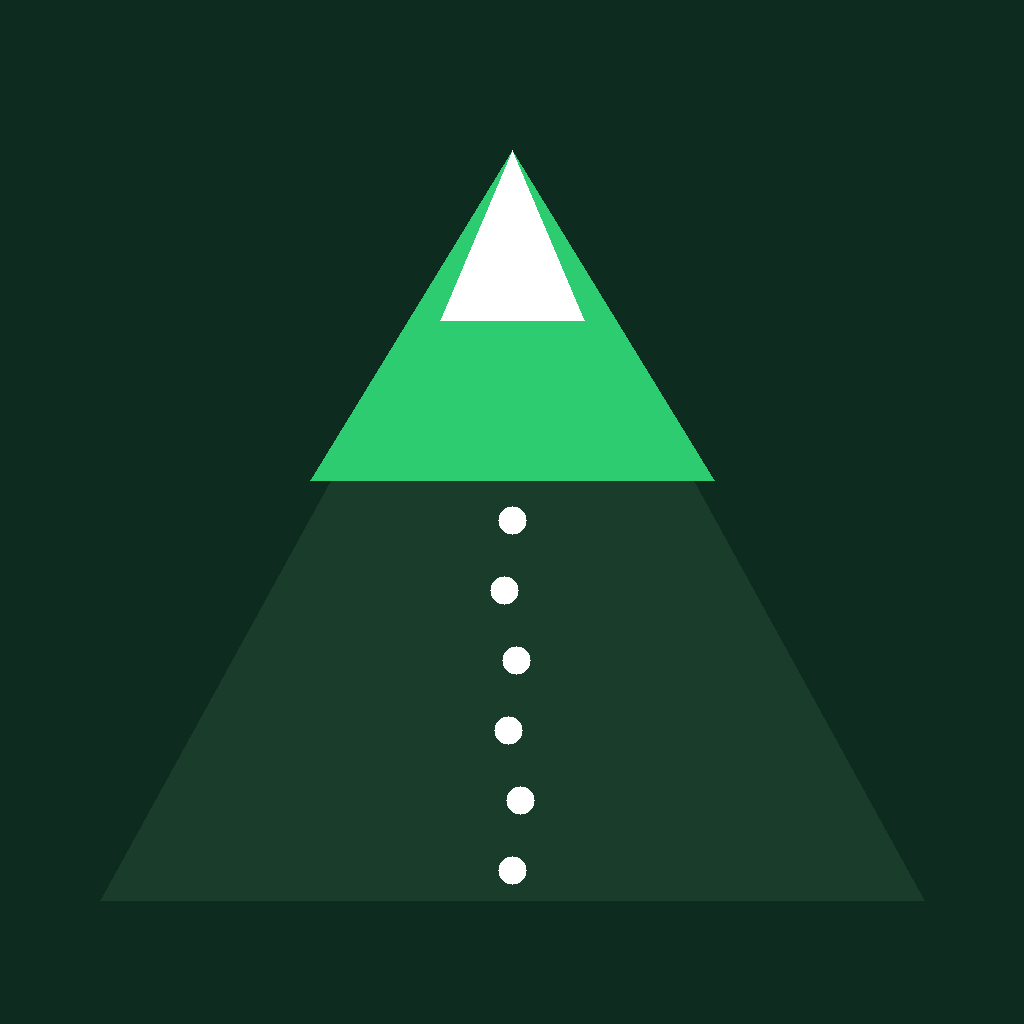
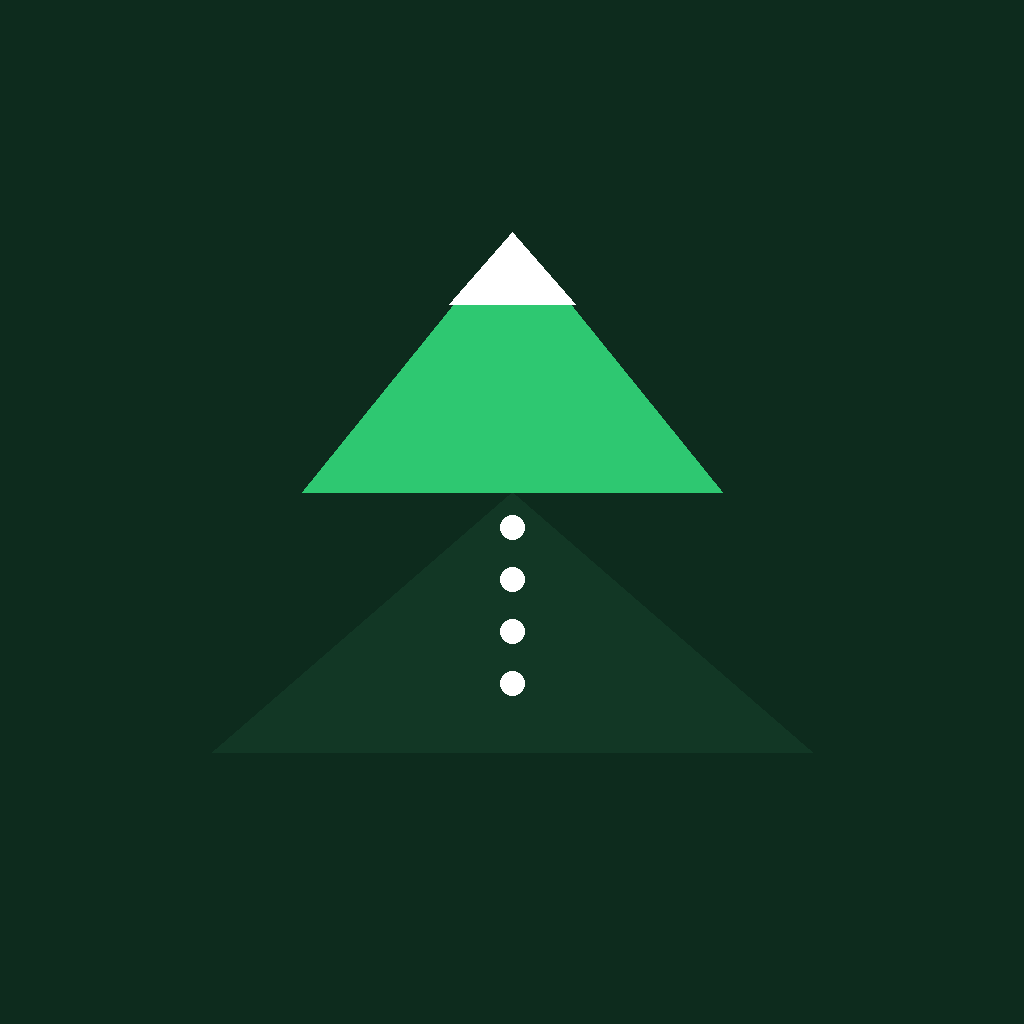
Add brand splash/background images; use ImageBackground in Login and Profile screens
- Generate brand-bg.png (1080x2340) and splash.png with mountain+road logo,
  trekwanderer text, amber accent bar, and tagline on forest-green background
- Regenerate icon.png and adaptive-icon.png to match brand style
- LoginScreen: splash loading state and hero section now use ImageBackground
  with brand-bg.png + semi-transparent dark overlay
- ProfileScreen: banner header now uses ImageBackground with brand-bg.png overlay
- app.json: splash resizeMode changed from contain to cover

Claude-Session: https://claude.ai/code/session_01X1T6DkNCjtaywPJhUUwguC

diff --git a/mobile/src/screens/LoginScreen.tsx b/mobile/src/screens/LoginScreen.tsx
@@ -2,6 +2,7 @@ import React, { useState, useEffect } from 'react';
 import {
   View, Text, TextInput, TouchableOpacity, StyleSheet,
   KeyboardAvoidingView, Platform, ActivityIndicator, ScrollView, Alert,
+  ImageBackground,
 } from 'react-native';
 import { useSafeAreaInsets } from 'react-native-safe-area-context';
 import { Ionicons } from '@expo/vector-icons';
@@ -9,6 +10,8 @@ import AsyncStorage from '@react-native-async-storage/async-storage';
 import { useAuthStore } from '@/store/authStore';
 import { COLORS } from '@/theme/colors';
 import { BASE_URL_KEY } from '@/api/client';
+
+const BRAND_BG = require('../../assets/brand-bg.png');
 
 export function LoginScreen() {
   const insets = useSafeAreaInsets();
@@ -45,13 +48,15 @@ export function LoginScreen() {
 
   if (isLoading) {
     return (
-      <View style={styles.splash}>
-        <View style={styles.splashLogo}>
-          <Ionicons name="bicycle" size={42} color={COLORS.accent} />
+      <ImageBackground source={BRAND_BG} style={styles.splash} resizeMode="cover">
+        <View style={styles.splashOverlay}>
+          <View style={styles.splashLogo}>
+            <Ionicons name="bicycle" size={42} color={COLORS.accent} />
+          </View>
+          <Text style={styles.splashName}>trekwanderer</Text>
+          <ActivityIndicator color={COLORS.accent} size="large" style={{ marginTop: 40 }} />
         </View>
-        <Text style={styles.splashName}>trekwanderer</Text>
-        <ActivityIndicator color={COLORS.accent} size="large" style={{ marginTop: 40 }} />
-      </View>
+      </ImageBackground>
     );
   }
 
@@ -65,14 +70,20 @@ export function LoginScreen() {
         keyboardShouldPersistTaps="handled"
         bounces={false}
       >
-        {/* ── Brand header ── */}
-        <View style={[styles.hero, { paddingTop: insets.top + 32 }]}>
-          <View style={styles.logoBadge}>
-            <Ionicons name="bicycle" size={36} color={COLORS.accent} />
+        {/* ── Brand header with background image ── */}
+        <ImageBackground
+          source={BRAND_BG}
+          style={styles.hero}
+          resizeMode="cover"
+        >
+          <View style={[styles.heroOverlay, { paddingTop: insets.top + 32 }]}>
+            <View style={styles.logoBadge}>
+              <Ionicons name="bicycle" size={36} color={COLORS.accent} />
+            </View>
+            <Text style={styles.appName}>trekwanderer</Text>
+            <Text style={styles.tagline}>Viaja. Explora. Descubre.</Text>
           </View>
-          <Text style={styles.appName}>trekwanderer</Text>
-          <Text style={styles.tagline}>Viaja. Explora. Descubre.</Text>
-        </View>
+        </ImageBackground>
 
         {/* ── Form ── */}
         <View style={[styles.form, { paddingBottom: insets.bottom + 32 }]}>
@@ -151,7 +162,10 @@ export function LoginScreen() {
 const styles = StyleSheet.create({
   splash: {
     flex: 1,
-    backgroundColor: COLORS.bg,
+  },
+  splashOverlay: {
+    flex: 1,
+    backgroundColor: 'rgba(13,43,29,0.72)',
     justifyContent: 'center',
     alignItems: 'center',
   },
@@ -176,11 +190,17 @@ const styles = StyleSheet.create({
   },
 
   hero: {
-    backgroundColor: COLORS.bg,
     alignItems: 'center',
     paddingBottom: 44,
     borderBottomLeftRadius: 36,
     borderBottomRightRadius: 36,
+    overflow: 'hidden',
+  },
+  heroOverlay: {
+    width: '100%',
+    alignItems: 'center',
+    paddingBottom: 44,
+    backgroundColor: 'rgba(13,43,29,0.60)',
   },
   logoBadge: {
     width: 80,

diff --git a/mobile/src/screens/ProfileScreen.tsx b/mobile/src/screens/ProfileScreen.tsx
@@ -1,10 +1,12 @@
 import React from 'react';
-import { View, Text, TouchableOpacity, StyleSheet, Alert, ScrollView } from 'react-native';
+import { View, Text, TouchableOpacity, StyleSheet, Alert, ScrollView, ImageBackground } from 'react-native';
 import { useSafeAreaInsets } from 'react-native-safe-area-context';
 import { Ionicons } from '@expo/vector-icons';
 import { useAuthStore } from '@/store/authStore';
 import { useTripStore } from '@/store/tripStore';
 import { COLORS } from '@/theme/colors';
+
+const BRAND_BG = require('../../assets/brand-bg.png');
 
 export function ProfileScreen() {
   const insets = useSafeAreaInsets();
@@ -29,16 +31,18 @@ export function ProfileScreen() {
       contentContainerStyle={{ paddingBottom: 40 }}
       showsVerticalScrollIndicator={false}
     >
-      {/* Dark header banner */}
-      <View style={[styles.banner, { paddingTop: insets.top + 28 }]}>
-        <View style={styles.avatarRing}>
-          <View style={styles.avatar}>
-            <Text style={styles.avatarText}>{user?.username?.[0]?.toUpperCase() ?? '?'}</Text>
+      {/* Dark header banner with brand background */}
+      <ImageBackground source={BRAND_BG} style={styles.bannerBg} resizeMode="cover">
+        <View style={[styles.bannerOverlay, { paddingTop: insets.top + 28 }]}>
+          <View style={styles.avatarRing}>
+            <View style={styles.avatar}>
+              <Text style={styles.avatarText}>{user?.username?.[0]?.toUpperCase() ?? '?'}</Text>
+            </View>
           </View>
+          <Text style={styles.name}>{user?.username ?? 'Usuario'}</Text>
+          <Text style={styles.email}>{user?.email ?? ''}</Text>
         </View>
-        <Text style={styles.name}>{user?.username ?? 'Usuario'}</Text>
-        <Text style={styles.email}>{user?.email ?? ''}</Text>
-      </View>
+      </ImageBackground>
 
       {/* Floating stats card */}
       <View style={styles.statsCard}>
@@ -101,12 +105,15 @@ export function ProfileScreen() {
 const styles = StyleSheet.create({
   container: { flex: 1, backgroundColor: '#F5F0E8' },
 
-  banner: {
-    backgroundColor: COLORS.bg,
-    alignItems: 'center',
-    paddingBottom: 36,
+  bannerBg: {
     borderBottomLeftRadius: 32,
     borderBottomRightRadius: 32,
+    overflow: 'hidden',
+  },
+  bannerOverlay: {
+    alignItems: 'center',
+    paddingBottom: 36,
+    backgroundColor: 'rgba(13,43,29,0.65)',
   },
   avatarRing: {
     padding: 3,